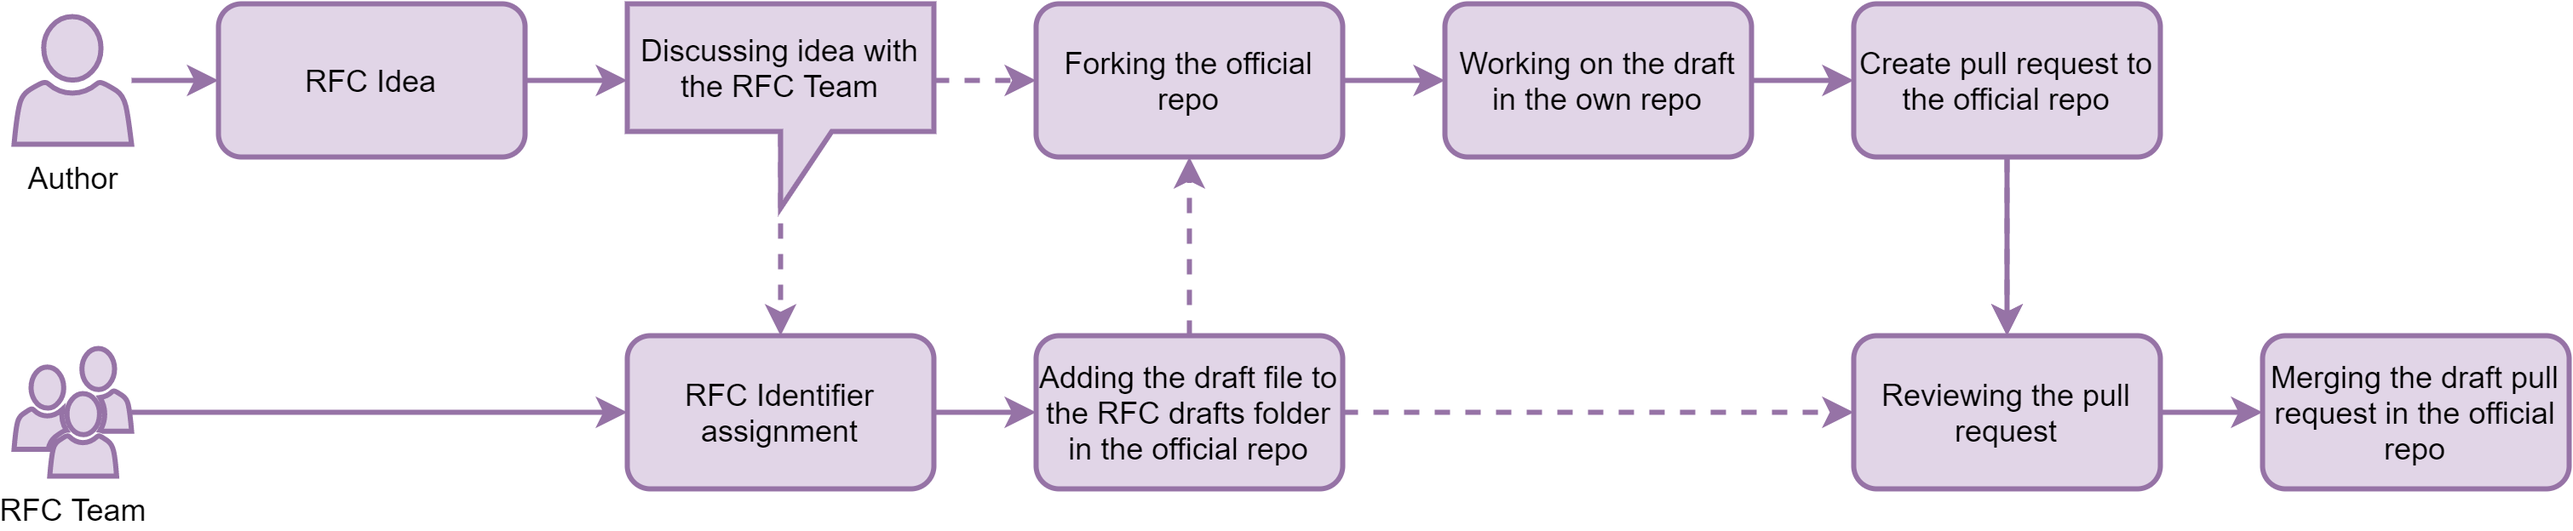
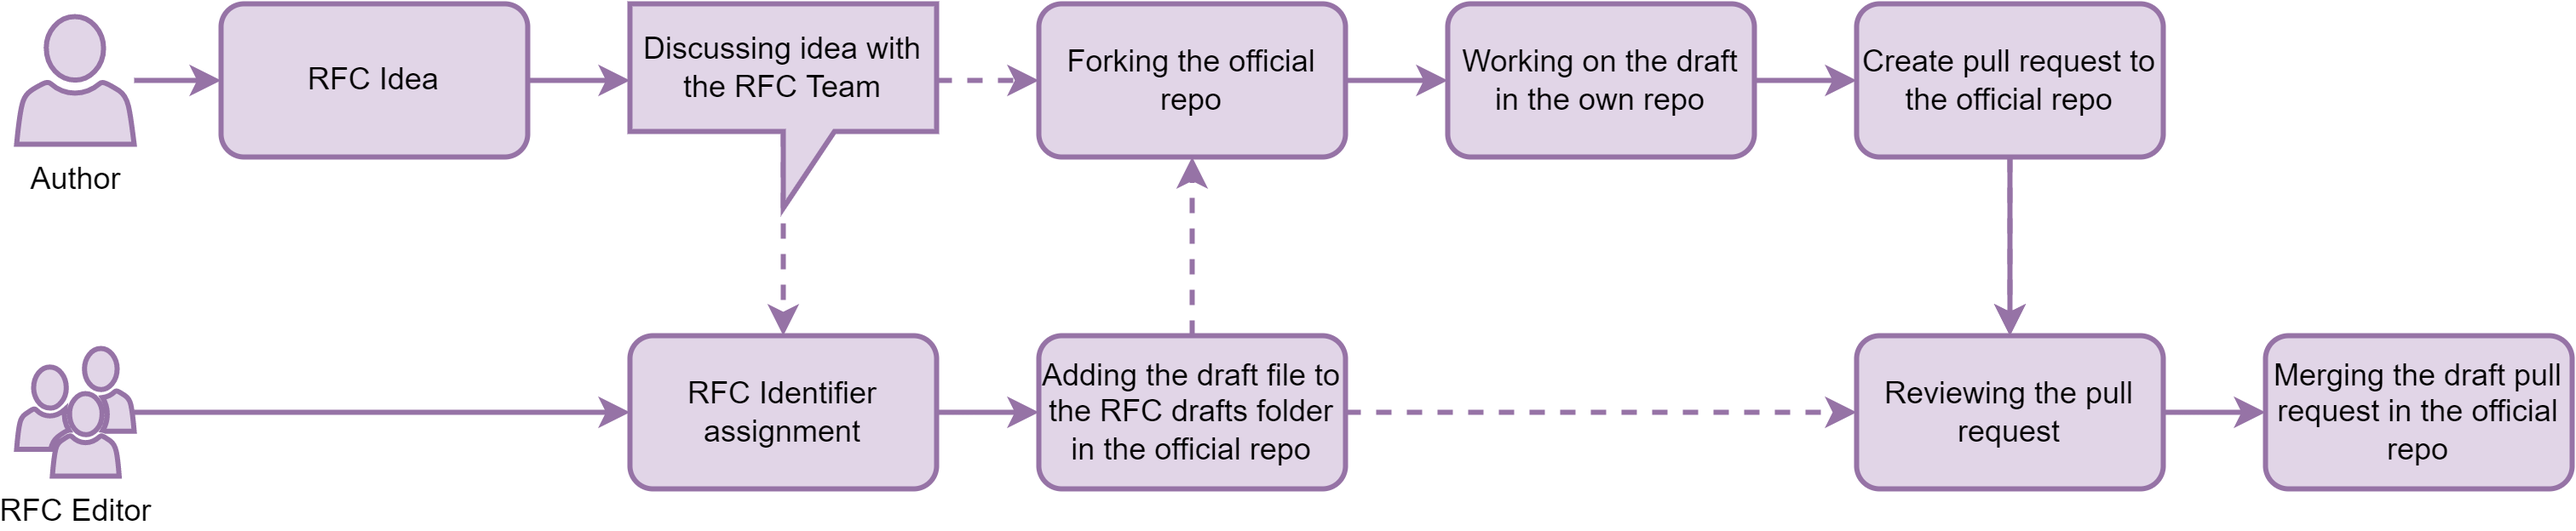
Modify RFC-0003

diff --git a/files/releases/RFC-0003/RFC-0003.md b/files/releases/RFC-0003/RFC-0003.md
@@ -42,12 +42,12 @@ RFCs will ultimately be akin to maintaining a large software codebase.
 Before describing the workflow in detail, this section gives an overview on the
 most important design decisions and distinct parts of the platform.
 
-## RFC Editorial Committee and RFC Team
+## RFC Editor, RFC Editorial Committee and RFC Team
 
-All strategic and aspects of the RFCs are managed by the **RFC Editorial
-Committee** appointed by the Time Machine Organisation board, the technical
-management, editorial work and support for RFC authors and other contributors is
-done by the **RFC Team**.
+All strategic and aspects of the RFCs are managed by the **RFC Editor and the
+RFC Editorial Committee** appointed by the Time Machine Organisation board, the
+technical management, editorial work and support for RFC authors and other
+contributors is done by the **RFC Team**.
 
 ## Authorship
 
@@ -57,7 +57,7 @@ individual and groups of authors when talking about _RFC authors_.
 
 ## New RFC proposal
 
-RFCs can be proposed by either the RFC Editorial Committee, RFC authors
+RFCs can be proposed by the RFC Editor, the RFC Editorial Committee, RFC authors
 appointed by the Time Machine Organization or any other interested public
 author. An up-to-date list of planned RFCs and their interconnection can be seen
 in RFC-0002.
@@ -135,13 +135,13 @@ final release in the RFC book.
 
 ![Conception flow](images/phase_1.png)
 
-Ideas for RFCs can come from both the RFC Editorial Committee and public
-authors, both as individual or groups of authors working together. Potential
-authors with an idea for an RFC should contact the RFC Editorial Committee to
+Ideas for RFCs can come from the RFC Editor, the RFC Editorial Committee, or
+public authors, both as individual or groups of authors working together.
+Potential authors with an idea for an RFC should contact the RFC Editor to
 coordinate the initial conception and drafting process. After accepting an RFC
-idea, the RFC Editorial Committee will assign an identifier and the RFC Team
-will prepare the draft file from a standardised template in the official RFC
-repository in the `files/drafts/[RFC-id]/` folder.
+idea, the RFC Editor will assign an identifier and the RFC Team will prepare the
+draft file from a standardised template in the official RFC repository in the
+`files/drafts/[RFC-id]/` folder.
 
 Following this step, the draft author can work on the document as they wish but
 once they feel the RFC is in a submittable state they will create a pull request
@@ -159,10 +159,10 @@ official repository and the public drafting phase will start.
 ![Drafting flow](images/phase_2.png)
 
 The drafting of an RFC is designed as a process that enables direct
-contributions by public participants as well as the official RFC Editorial
-Committee and Team in a similar manner. Over the course of a limited timespan
-all contributors can work on improvements of the draft text or propose and
-review changes. The fork-and-pull-request-workflow on GitHub makes sure that
+contributions by public participants as well as the official RFC Editor, RFC
+Editorial Committee and Team in a similar manner. Over the course of a limited
+timespan all contributors can work on improvements of the draft text or propose
+and review changes. The fork-and-pull-request-workflow on GitHub makes sure that
 each contribution is registered and stored in the official repository
 indefinitely.
 
@@ -183,19 +183,20 @@ editor / Git client of their choice to work with the files.
 Changes to the RFC draft can be submitted at any time during the drafting phase
 in the form of pull requests from the forked repository to the so-called
 upstream repository, that is the official RFC repository. This enables the RFC
-Editorial Committee, RFC Team and other contributors to review the proposed
-changes, suggest editions or point out problems directly next to the provided
-version of the draft document.
+Editor, RFC Editorial Committee, RFC Team and other contributors to review the
+proposed changes, suggest editions or point out problems directly next to the
+provided version of the draft document.
 
 All pull requests to the official RFC repository during the drafting and review
 phase can be reviewed and commented by any contributor but to be accepted and to
-be merged the changes have to be accepted by the RFC Team and Editorial
-Committee or reviewers appointed by the RFC Editorial Committee. After a pull
-request with changes passes this review, it is accepted and will be merged by
-the RFC Team into the master branch of the RFC repository. This makes the newly
-merged version the new official version of the draft. Other open pull requests
-will have to be updated by their creators to integrate the new changes into
-their version if conflicts occur.
+be merged the changes have to be accepted and to be merged the changes have to
+be accepted by the RFC Editor, RFC Team and Editorial Committee or reviewers
+appointed by the RFC Editor or the RFC Editorial Committee. After a pull request
+with changes passes this review, it is accepted and will be merged by the RFC
+Team into the master branch of the RFC repository. This makes the newly merged
+version the new official version of the draft. Other open pull requests will
+have to be updated by their creators to integrate the new changes into their
+version if conflicts occur.
 
 Merged pull requests will trigger a _GitHub Action_[^github_action] that
 compiles the current version of all open draft documents and attaches them as a
@@ -217,15 +218,15 @@ necessary.
 
 ![Release flow](images/phase_3.png)
 
-If an RFC draft is considered fit for release by the community and the RFC
-Editorial Committee and reviewers after the drafting and review phase, the draft
-file is updated to include all contributors and to conform to the other
-formalities and is then moved from the `files/drafts` folder to `files/releases`
-by the RFC Team. After merging this change into the master branch of the
-repository, a new GitHub release[^github_release] will be created by the RFC
-Team. This will trigger the creation of a new timestamped version of the RFC
-book which will be attached to the release. This marks the formal release of the
-newly finished RFC document.
+If an RFC draft is considered fit for release by the community, the RFC Editor,
+the RFC Editorial Committee and reviewers after the drafting and review phase,
+the draft file is updated to include all contributors and to conform to the
+other formalities and is then moved from the `files/drafts` folder to
+`files/releases` by the RFC Team. After merging this change into the master
+branch of the repository, a new GitHub release[^github_release] will be created
+by the RFC Team. This will trigger the creation of a new timestamped version of
+the RFC book which will be attached to the release. This marks the formal
+release of the newly finished RFC document.
 
 # Updates at a later point
 
@@ -247,7 +248,7 @@ and to help to ensure scientific standards for the drafting and review process.
 
 ## Question: I have an idea for an RFC. What do I do?
 
-Please contact the RFC Team at [rfc@timemachine.eu](mailto:rfc@timemachine.eu)
+Please contact the RFC Editor at [rfc@timemachine.eu](mailto:rfc@timemachine.eu)
 with your idea. They will assist you with the creation an initial draft version
 of the idea, if it is deemed to be suitable and feasible.
 
@@ -258,8 +259,9 @@ the main RFC repository into your own account, fix the error in your forked
 version of the document, commit it into your repository and open a pull request
 outlining your changes to the main RFC repository. It will then be visible, can
 be reviewed and then eventually merged into the main draft document if the
-changes are accepted by the reviewers. If you need any help with this, feel free
-to contact the RFC Team at [rfc@timemachine.eu](mailto:rfc@timemachine.eu).
+changes are accepted by the reviewers. . If you need any help with this, feel
+free to contact the RFC Editor at
+[rfc@timemachine.eu](mailto:rfc@timemachine.eu).
 
 ## Question: I have worked on a draft document myself and would like to preview the final PDF document to see how it would look. How can I do this?
 
